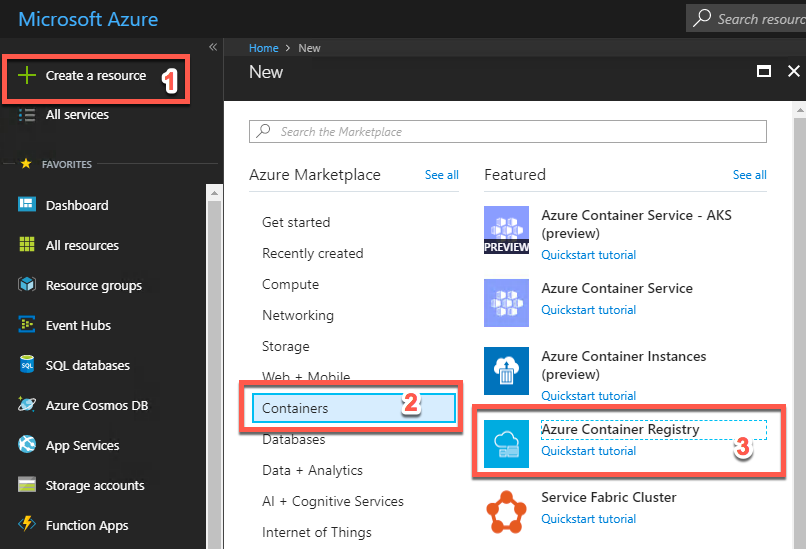
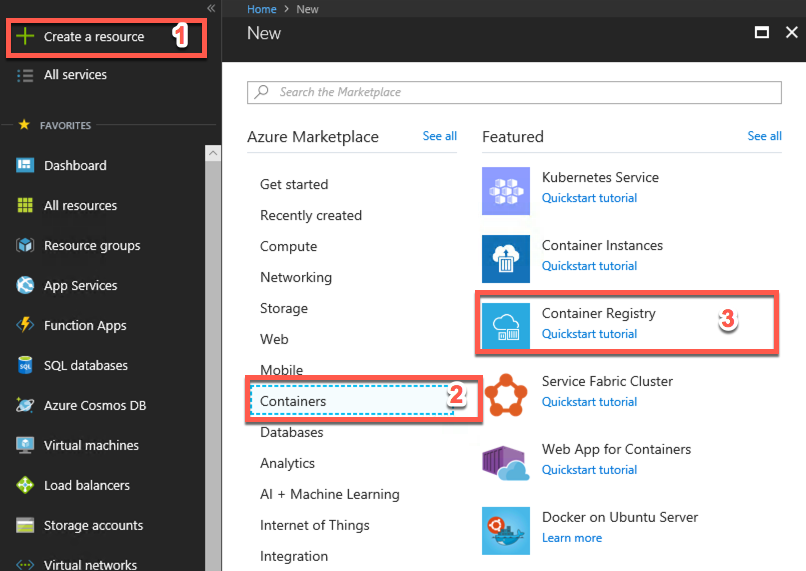
Reviewed setup instructions

diff --git a/Setup.md b/Setup.md
@@ -8,7 +8,7 @@
 
     -   You must have rights to create a service principal as discussed in Task 9: Create a Service Principal --- and this typically requires a subscription owner to log in. You may have to ask another subscription owner to login to the portal and execute that step ahead of time if you do not have the rights.
 
-    -   You must have enough cores available in your subscription to create the build agent and Azure Container Service cluster in Task 5: Create a build agent VM and Task 10: Create an Azure Container Service (AKS) cluster. You'll need eight cores if following the exact instructions in the lab, more if you choose additional agents or larger VM sizes. If you execute the steps required before the lab, you will be able to see if you need to request more cores in your sub.
+    -   You must have enough cores available in your subscription to create the build agent and Azure Container Service cluster in Task 5: Create a build agent VM and Task 10: Create an Azure Kubernetes Service cluster. You'll need eight cores if following the exact instructions in the lab, more if you choose additional agents or larger VM sizes. If you execute the steps required before the lab, you will be able to see if you need to request more cores in your sub.
 
 2.  Local machine or a virtual machine configured with:
 
@@ -370,7 +370,7 @@ You deploy Docker images from a registry. To complete the hands-on lab, you will
 
 2.  On the Create container registry blade, enter the following:
 
-    -   Registry name: Enter a name, such as \"fabmedicalSUFFIX,\" as shown in the following screenshot.
+    -   Registry name: Enter a name, such as "fabmedicalSUFFIX", as shown in the following screenshot.
 
     -   Subscription: Choose the same subscription you are using for all your work.
 
@@ -386,39 +386,49 @@ You deploy Docker images from a registry. To complete the hands-on lab, you will
 
 3.  Select **Create**.
 
-4.  Navigate to your ACR account in the Azure Portal. As this is a new account, you will not see any repositories yet. You will create these during the hands-on lab. ![This is a screenshot of your ACR account in the Azure portal. No repositories are visible yet.](images/Setup/image34.png)
+4.  Navigate to your ACR account in the Azure Portal. As this is a new account, you will not see any repositories yet. You will create these during the hands-on lab.
+
+    ![This is a screenshot of your ACR account in the Azure portal. No repositories are visible yet.](images/Setup/image34.png)
 
 ### Task 9: Create a Service Principal
 
-Azure Container Service (AKS) requires an Azure Active Directory service principal??to interact with Azure APIs. The service principal is needed to dynamically manage resources such as??user-defined routes??and the??Layer 4 Azure Load Balancer. The easiest way to set up the service principal is using the Azure cloud shell.
+Azure Kubernetes Service requires an Azure Active Directory service principal to interact with Azure APIs. The service principal is needed to dynamically manage resources such as user-defined routes and the Layer 4 Azure Load Balancer. The easiest way to set up the service principal is using the Azure cloud shell.
 
 **NOTE: By default, creating a service principal in Azure AD requires account owner permission. You may have trouble creating a service principal if you are not the account owner.**
 
-1.  Open cloud shell by selecting the cloud shell icon in the menu bar.![The cloud shell icon is highlighted on the menu bar.](images/Setup/image35.png)
+1.  Open cloud shell by selecting the cloud shell icon in the menu bar.
 
-2.  The cloud shell will open in the browser window. Choose "Bash (Linux)" if prompted or use the left-hand dropdown on the shell menu bar to choose "Bash" (as shown).![This is a screenshot of the cloud shell opened in a browser window. Bash was selected.](images/Setup/image36.png)
+    ![The cloud shell icon is highlighted on the menu bar.](images/Setup/image35.png)
+
+2.  The cloud shell will open in the browser window. Choose "Bash (Linux)" if prompted or use the left-hand dropdown on the shell menu bar to choose "Bash" (as shown).
+
+    ![This is a screenshot of the cloud shell opened in a browser window. Bash was selected.](images/Setup/image36.png)
 
 3.  Before completing the steps to create the service principal, you should make sure to set your default subscription correctly. To view your current subscription type:
-    ```
+
+    ``` bash
     az account show
     ```
 
-![In this screenshot of a Bash window, az account show has been typed and run at the command prompt. Some subscription information is visible in the window, and some information is obscurred.](images/Setup/image37.png)
+    ![In this screenshot of a Bash window, az account show has been typed and run at the command prompt. Some subscription information is visible in the window, and some information is obscured.](images/Setup/image37.png)
 
 4.  To list all of your subscriptions, type:
-    ```
+
+    ``` bash
     az account list
     ```
 
-![In this screenshot of a Bash window, az account list has been typed and run at the command prompt. Some subscription information is visible in the window, and some information is obscurred.](images/Setup/image38.png)
+    ![In this screenshot of a Bash window, az account list has been typed and run at the command prompt. Some subscription information is visible in the window, and some information is obscured.](images/Setup/image38.png)
 
 5.  To set your default subscription to something other than the current selection, type the following, replacing {id} with the desired subscription id value:
-    ```
+
+    ``` bash
     az account set --subscription {id}
     ```
 
 6.  To create a service principal, type the following command, replacing {id} with your subscription identifier, and replacing suffix with your chosen suffix to make the name unique.
-    ```
+
+    ``` bash
     az ad sp create-for-rbac --role="Contributor" --scopes="/subscriptions/{id}" --name="Fabmedical-sp-{SUFFIX}"
     ```
 
@@ -426,59 +436,56 @@ Azure Container Service (AKS) requires an Azure Active Directory service princip
 
     ![In this screenshot of a Bash window, az ad sp create-for-rbac \--role=\"Contributor\" \--scopes=\"/subscriptions/{id}\" \--name=\"Fabmedical-sp\" has been typed and run at the command prompt. Service principal information is visible in the window, but at this time, we are unable to capture all of the information in the window. Future versions of this course should address this.](images/Setup/image39.png)
 
-### Task 10: Create an Azure Container Service (AKS) cluster
+### Task 10: Create an Azure Kubernetes Service cluster
 
-In this task, you will create your Azure Container Service (AKS) cluster. You will use the same SSH key you created previously to connect to this cluster in the next task.
+In this task, you will create your Azure Kubernetes Service cluster. You will use the same SSH key you created previously to connect to this cluster in the next task.
 
-**NOTE: In this step, you will be asked to create a second Resource Group as part of the template for creating the Azure Container Service cluster. This is due to the current template not providing the option to select an *existing* Resource Group, and this may change in the future.**
+1.  From the Azure Portal, select **+ Create a resource**, **Containers** and select **Kubernetes Service**.
 
-1.  From the Azure Portal, select **+ Create a resource**, **Containers** and select **Azure Container Service - AKS**. ![In this screenshot of the Azure portal, + Create a resource is highlighted and labeled 1 on the left side. To the right, Containers is highlighted and labeled 2 under Azure Marketplace. To the right of that, Azure Container Service - AKS is highlighted and labeled 3 under Featured.](images/Setup/image40.png)
+    ![In this screenshot of the Azure portal, + Create a resource is highlighted and labeled 1 on the left side. To the right, Containers is highlighted and labeled 2 under Azure Marketplace. To the right of that, Kubernetes Service is highlighted and labeled 3 under Featured.](images/Setup/image40.png)
 
 2.  In the Basics blade provide the information shown in the screenshot that follows:
 
-    -   **Name**: Enter fabmedical-SUFFIX.
+    > Note: you may need to scroll to see all values.
 
-    -   **DNS Prefix**: Enter fabmedical-SUFFIX.
-
-    -   **Kubernetes version**: keep default.
-
-    -   **Subscription**: Choose your subscription which you have been using throughout the lab.
-
-    -   **Resource** **group**: Create new and provide a unique name. Since the template does not support using an existing Resource Group, provide a new name such adding a "2" to the suffix, such as fabmedical-SUFFIX-2.
-
-    -   **Location**: Choose a location.
+    * **Subscription**: Choose your subscription which you have been using throughout the lab.
+    * **Resource group**: Select the resource group you have been using through the lab.
+    * **Name**: Enter fabmedical-SUFFIX.
+    * **Region**: Choose the same region as the resource group.
+    * **Kubernetes version**: 1.9.6.
+    * **DNS Prefix**: Enter fabmedical-SUFFIX.
 
         ![Basics is selected in the Create Azure Container Service blade, and the values listed above appear in the corresponding boxes in the Basics blade on the right.](images/Setup/image41.png)
 
-3.  Select **OK**.
+    * Configure your service principal
+        * **Service principal client ID**: Use the service principal “appId” from the previous step.
+        * **Service principal client secret**: Use the service principal “password” from the previous step.
 
-4.  On the Configuration blade provide:
+            ![Microsoft Azure](images/Setup/image41a.png)
 
--   **User name**: Enter adminfabmedical
+    * Configure your VM size
 
--   **SSH** **Public** **Key**: Paste the same SSH public key (fabmedical.pub) you used for the agent VM previously.
+        * Click "Change Size"
+        * Search for "D2_v2"
+        * Select "D2_v2"
 
--   **Service principal client ID**: Use the service principal "appId" from the previous step.
+            ![Microsoft Azure](images/Setup/image41b.png)
 
--   **Service principal client secret**: Use the service principal "password" from the previous step.
+    * Set the Node Count to 2
 
-    -   **Node count**: 2
+        ![Microsoft Azure](images/Setup/image41c.png)
 
-    -   **Node virtual machine size**: Standard DS2\_V2
+1. Click "Next: Networking".
+1. Keep the defaults and click "Next: Monitoring"
+1. Keep the defaults and click "Next: Tags"
+1. Keep the defaults and click "Review + create"
+1. You should see that validation passed; Click "Create".
 
-    -   **OS Disk Size**: leave empty
+6.  On the Summary blade, you should see that validation passed; select **OK**.
 
-        ![Configuration is selected in the Create Azure Container Service blade, and the values listed above appear in the corresponding boxes in the Configuration blade on the right.](images/Setup/image42.png)
+    ![Summary is selected in the Create Azure Container Service blade, and a Validation passed message appears in the Summary blade on the right.](images/Setup/image43.png)
 
-5.  Select **OK**.
-
-6.  On the Summary blade, you should see that validation passed; select **OK**. ![Summary is selected in the Create Azure Container Service blade, and a Validation passed message appears in the Summary blade on the right.](images/Setup/image43.png)
-
-7.  The Azure Container Service cluster will begin deployment to your Azure subscription.
-
-    ![The Deploying Azure Container Service icon indicates that deployment has begun to your Azure subscription.](images/Setup/image44.png)
-
-8.  You should see a successful deployment notification when the cluster is ready. It can take up to 10 minutes before your Azure Container Service cluster is listed in the Azure Portal. You can proceed to the next step while waiting for this to complete, then return to view the success of the deployment.
+7.  The Azure Container Service cluster will begin deployment to your Azure subscription. You should see a successful deployment notification when the cluster is ready. It can take up to 10 minutes before your Azure Container Service cluster is listed in the Azure Portal. You can proceed to the next step while waiting for this to complete, then return to view the success of the deployment.
 
     ![This is a screenshot of a deployment notification indicating that the deployments succeeded.](images/Setup/image45.png)
 
@@ -491,20 +498,22 @@ In later exercises, you will need the Azure CLI 2.0 to connect to your Kubernete
 <https://docs.microsoft.com/en-us/cli/azure/install-azure-cli?view=azure-cli-latest>
 
 1.  For MacOS -- use homebrew
-    ```
+
+    ``` bash
     brew update
 
     brew install azure-cli
     ```
 
-2.  For Windows -- using WSL
-    ```
-    echo "deb [arch=amd64] https://packages.microsoft.com/repos/azure-cli/ wheezy main" | sudo tee /etc/apt/sources.list.d/azure-cli.list
+2.  For Windows -- using WSL _on your local machine (not the build agent)_
 
-    sudo apt-key adv --keyserver packages.microsoft.com --recv-keys 52E16F86FEE04B979B07E28DB02C46DF417A0893
+    ``` bash
+    AZ_REPO=$(lsb_release -cs)
+    echo "deb [arch=amd64] https://packages.microsoft.com/repos/azure-cli/ $AZ_REPO main" | sudo tee /etc/apt/sources.list.d/azure-cli.list
+
+    curl -L https://packages.microsoft.com/keys/microsoft.asc | sudo apt-key add -
 
     sudo apt-get install apt-transport-https
-
     sudo apt-get update && sudo apt-get install azure-cli
     ```
 
@@ -512,16 +521,17 @@ In later exercises, you will need the Azure CLI 2.0 to connect to your Kubernete
 
 In later exercises, you will need the Kubernetes CLI (kubectl) to deploy to your Kubernetes cluster and run commands from your local machine.
 
-1.  Regardless of the operating system, considering the usage of WSL on Windows, install the Kubernetes client using Azure CLI
-    ```
+1.  Install the Kubernetes client using Azure CLI
+
+    ``` bash
     az login
 
-    sudo az acs kubernetes install-cli \--install-location /usr/local/bin/kubectl
+    sudo az acs kubernetes install-cli --install-location /usr/local/bin/kubectl
     ```
 
 ### Task 13: Download the FabMedical starter files
 
-FabMedical has provided starter files for you. They have taken a copy of one of their websites, for their customer Contoso Neuro, and refactored it from a single node.js site into a website with a content API that serves up the speakers and sessions. This is a starting point to validate the containerization of their websites. They have asked you to use this to help them complete a POC that validates the development workflow for running the website and API as Docker containers and managing them within the Azure Container Service (AKS) environment.
+FabMedical has provided starter files for you. They have taken a copy of one of their websites, for their customer Contoso Neuro, and refactored it from a single node.js site into a website with a content API that serves up the speakers and sessions. This is a starting point to validate the containerization of their websites. They have asked you to use this to help them complete a POC that validates the development workflow for running the website and API as Docker containers and managing them within the Azure Kubernetes Service environment.
 
 1.  From WSL, connect to the build agent VM as you did previously in Before the hands-on lab - Task 6: Connect securely to the build agent using the SSH command.
 
